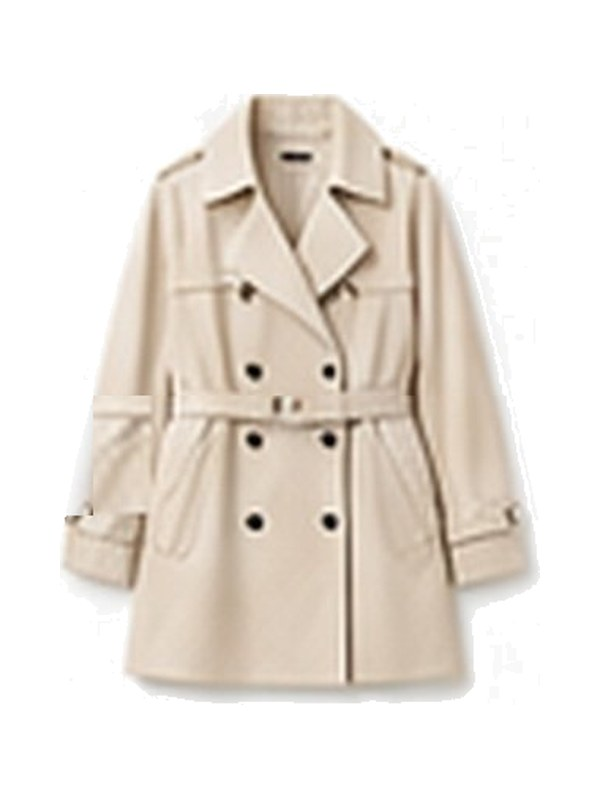
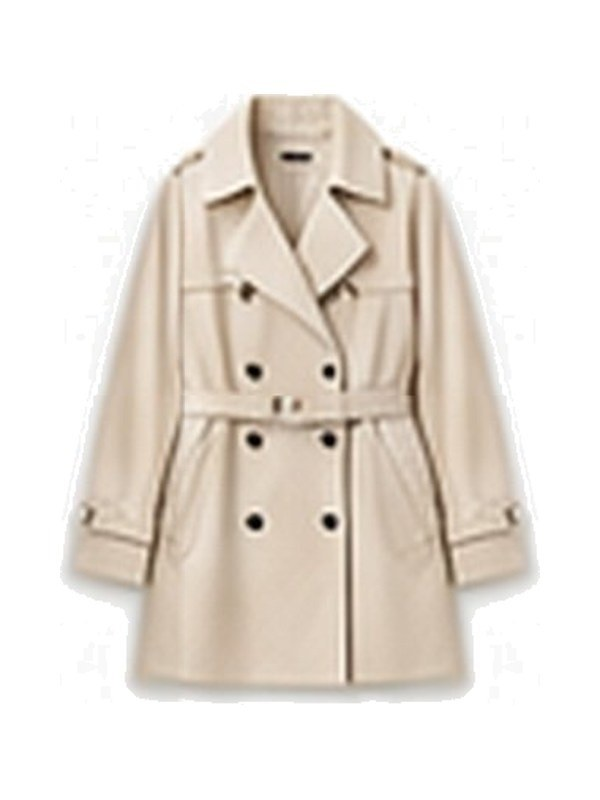
Fix landing photos and price-watch copy, tighten landing story
Photos: restore the clipped left sleeve on c1, c4, c6, c7, k5 and k3 by
mirroring the other side, and swap the blurry or cropped hero shelf
items (a5, sh2, pt3) for clean shots (wt3, h2, sc2).

Copy: the away scene again says it buys only when every pre-approved
term fits, matching R10; payment lines now say you approve every
payment. The five highlight cards follow the hero's camel coat request
end to end. Less repetition of "hand off" and "you pay", a shorter
story, and English kept in step with Korean.

Changed region(s): [[0.09, 0.1875, 0.33, 0.875]]

diff --git a/src/ui/landCopy.ts b/src/ui/landCopy.ts
@@ -15,7 +15,7 @@ export const LAND = {
   },
   heroName: { ko: 'Nod', en: 'Nod' },
   heroTitle: { ko: '말만 하면,\n찾아서 담아 줘요.', en: 'Say it. It finds it and adds it.' },
-  heroBar: { ko: '결제는 언제나 내가 해요.', en: 'You always do the paying.' },
+  heroBar: { ko: '결제는 언제나 내가 승인해요.', en: 'Every payment waits for your OK.' },
   start: { ko: '직접 맡겨 보기', en: 'Hand one off' },
   startShort: { ko: '써 보기', en: 'Try it' },
 
@@ -27,8 +27,8 @@ export const LAND = {
     go: { ko: (n: number) => `${n}번째 카드 보기`, en: (n: number) => `Show card ${n}` },
     cards: [
       {
-        t: { ko: '"검정 울 코트, 20만원 이하"\n이렇게만 말하면 돼요.', en: '"Black wool coat under 200k."\nThat is all you say.' },
-        d: { ko: '색상·소재·종류·예산으로 알아들은 걸 먼저 보여줘요.', en: 'It shows what it understood first: color, material, type, budget.' },
+        t: { ko: '"카멜·베이지 코트, 25만원 이하"\n이렇게만 말하면 돼요.', en: '"Camel or beige coat under 250k."\nThat is all you say.' },
+        d: { ko: '색상·종류·예산으로 알아들은 걸 먼저 보여줘요.', en: 'It shows what it understood first: color, type, budget.' },
       },
       {
         t: { ko: '사이트를 오가며\n비교하지 않아도 돼요.', en: 'No more hopping\nbetween sites to compare.' },
@@ -40,13 +40,21 @@ export const LAND = {
       },
       {
         t: { ko: '생각보다 비싸게\n결제될 일 없어요.', en: 'No paying more\nthan you meant to.' },
-        d: { ko: '정해 둔 한도를 넘으면 결제 전에 알려줘요. 결제는 언제나 내가 해요.', en: 'Over your limit, it tells you before paying. You always pay yourself.' },
+        d: { ko: '정해 둔 한도를 넘으면 결제 전에 알려줘요. 결제는 언제나 내가 승인해요.', en: 'Over your limit, it tells you before paying. Every payment waits for your OK.' },
       },
       {
         t: { ko: '뭘 했는지 다 보이고,\n되돌릴 수도 있어요.', en: 'You see everything it did,\nand can undo it.' },
         d: { ko: '찾고, 빼고, 묻고, 담은 기록이 모두 남아요.', en: 'Every find, drop, question and add is logged.' },
       },
     ] satisfies { t: L; d: L }[],
+    /** 카드 다섯 장은 히어로와 같은 요청 하나를 따라간다 */
+    request: { ko: '카멜·베이지 코트, 25만원 이하', en: 'Camel or beige coat under 250,000' },
+    chips: [
+      { l: { ko: '색상', en: 'Color' }, v: { ko: '카멜·베이지', en: 'camel, beige' } },
+      { l: { ko: '종류', en: 'Type' }, v: { ko: '코트', en: 'coat' } },
+      { l: { ko: '예산', en: 'Budget' }, v: { ko: '25만원 이하', en: 'under 250,000' } },
+    ] satisfies { l: L; v: L }[],
+    limit: 200000,
     match: { ko: '요청에 맞음', en: 'Match' },
     over: { ko: '예산 초과', en: 'Over budget' },
     budget: { ko: '예산 25만원', en: 'Budget KRW 250,000' },
@@ -70,7 +78,6 @@ export const LAND = {
     you: { ko: '내가 정함', en: 'You decide' },
     agent: { ko: '알아서 진행', en: 'Goes ahead' },
     touches: { ko: (n: number) => `내가 확인하는 순간 ${n}번`, en: (n: number) => `${n} moment${n > 1 ? 's' : ''} you check` },
-    touchNote: { ko: '더 많이 맡겨도 결제는 항상 내가 해요.', en: 'Hand off more, and you still pay yourself.' },
     steps: [
       { t: { ko: '요청', en: 'Ask' }, d: { ko: '무엇을, 얼마까지', en: 'What, and how much' } },
       { t: { ko: '계획', en: 'Plan' }, d: { ko: '할 일을 먼저 보여줘요', en: 'Shows the plan first' } },
@@ -84,7 +91,7 @@ export const LAND = {
   scenes: [
     { r: 'R4', t: { ko: '가격이 바뀌었을 때', en: 'When the price changes' }, d: { ko: '담기로 한 뒤 가격이 바뀌면, 담지도 결제하지도 않고 바뀐 가격으로 다시 물어봐요.', en: 'If the price moves after you said yes, it neither adds nor pays. It asks again at the new price.' } },
     { r: 'R5', t: { ko: '뭐가 나을지 애매할 때', en: 'When it is a close call' }, d: { ko: '두 상품이 비슷하게 맞으면 혼자 고르지 않고 나란히 보여줘요. "알아서"로 맡겨도 이건 물어봐요.', en: 'When two items fit about the same, it lays them side by side. Even on "Auto", it asks.' } },
-    { r: 'R10', t: { ko: '자리 비운 사이 가격이 내려왔을 때', en: 'When the price drops while you are away' }, d: { ko: '미리 정한 사이즈·총액·판매처·기한 안에서만 움직여요. 하나라도 안 맞으면 멈추고 이유를 남겨요.', en: 'It moves only inside the size, total, seller and deadline you set. If one does not fit, it stops and notes why.' } },
+    { r: 'R10', t: { ko: '자리 비운 사이 가격이 내려왔을 때', en: 'When the price drops while you are away' }, d: { ko: '미리 정하고 승인해 둔 사이즈·총액·판매처·기한이 모두 맞을 때만 사요. 하나라도 어긋나면 사지 않고 이유를 남겨요.', en: 'It buys only if the size, total, seller and deadline you set and approved ahead all fit. If one is off, it does not buy and notes why.' } },
   ] satisfies { r: string; t: L; d: L }[],
   vis: {
     priceA: { ko: '178,000원', en: 'KRW 178,000' },
@@ -95,7 +102,7 @@ export const LAND = {
     pick: { ko: '직접 골라 주세요', en: 'You choose' },
     target: { ko: '목표 150,000원', en: 'Target KRW 150,000' },
     dropped: { ko: '149,000원, M 품절', en: 'KRW 149,000 · M sold out' },
-    held: { ko: '사이즈가 없어 멈춤', en: 'Size gone, stopped' },
+    held: { ko: '사이즈가 없어 사지 않음', en: 'Size gone, not bought' },
   },
   steps: [
     { t: { ko: '요청', en: 'Ask' }, d: { ko: '찾을 걸 말해요', en: 'Say what you want' } },
@@ -105,7 +112,7 @@ export const LAND = {
   ] satisfies { t: L; d: L }[],
 
   dialTitle: { ko: '얼마나 맡길지는\n내가 정해요.', en: 'You decide\nhow much to hand off.' },
-  dialSub: { ko: '세 단계 중에 고르면 돼요. 어떤 단계든 결제는 내가 해요.', en: 'Pick one of three. At every level, you pay yourself.' },
+  dialSub: { ko: '세 단계 중에 고르면 돼요. 나중에 언제든 바꿀 수 있어요.', en: 'Pick one of three. You can change it any time.' },
 
   cmpTitle: { ko: '나에게 맞는 단계는?', en: 'Which level fits you?' },
   cmp: [
@@ -118,7 +125,7 @@ export const LAND = {
   cmpYes: { ko: '해당', en: 'Yes' },
   cmpNo: { ko: '해당 없음', en: 'No' },
 
-  tryTitle: { ko: '직접 맡겨 보세요', en: 'Hand one off yourself' },
+  tryTitle: { ko: '코트 하나,\n직접 따라가 보세요.', en: 'One coat,\nfollow it through.' },
   trySub: { ko: '요청부터 결제 전까지, 어떻게 움직이는지 한 번 따라가 보세요.', en: 'Follow one request all the way to payment.' },
   agentSub: {
     ko: '조건에 안 맞는 상품은 흐려지고, 예산을 넘는 후보는 빠져요. "담기만 확인"으로 두면 담기 전에 물어봐요.',
@@ -144,10 +151,10 @@ export const LAND = {
   playNote: { ko: '앱에서 "설계 보기"를 켜면 카드마다 해당 원칙이 표시돼요.', en: 'Switch on "Design notes" in the app to tag each card with its rule.' },
 
   /** 만든 이야기: 포트폴리오를 보는 사람을 위한 배경. 아래쪽에 작게 */
-  storyTitle: { ko: '할 수 있는 AI를,\n맡겨도 되는 AI로.', en: 'From an agent that can,\nto an agent you can trust.' },
+  storyTitle: { ko: '할 수 있는 AI를,\n맡겨도 되는 AI로.', en: 'From an AI that can,\nto an AI you can trust.' },
   storySub: {
-    ko: '가격 알림과 최저가 비교가 핵심인 쇼핑 서비스에서 일하며 본 장면에서 시작했어요. AI가 대신 결제하는 방식은 이미 표준이 되고 있지만(OpenAI·Stripe의 ACP, Google의 AP2), 사람이 고를 수 있는 건 "매번 확인"과 "다 알아서" 둘뿐이었어요. 그래서 "얼마나 자동으로 할까"보다 "언제 멈추고 무엇을 보고 물을까"를 먼저 정하고, 직접 만든 쇼핑몰에서 시험했어요.',
-    en: 'It starts from what I saw working on a commerce aggregator built on price alerts and lowest-price tracking. Agent payments are standardizing (ACP, AP2), yet people get two options: "always ask" or "do it all". So I decided when to stop and ask before deciding how much to automate, and tested it in a shop I built.',
+    ko: '가격 알림과 최저가 비교가 핵심인 쇼핑 서비스에서 일하며 본 장면에서 시작했어요. AI가 대신 결제하는 표준(ACP, AP2)은 나왔지만, 고를 수 있는 건 "매번 확인"과 "다 알아서" 둘뿐이었어요. 그래서 "언제 멈추고 물을까"부터 정하고, 직접 만든 쇼핑몰에서 시험했어요.',
+    en: 'It started at a shopping service built on price alerts and lowest-price tracking. Standards for agent payments (ACP, AP2) exist, yet people get two options: "always ask" or "do it all". So I decided first when it should stop and ask, then tested it in a shop I built.',
   },
 
   endTitle: { ko: '쇼핑 하나,\n맡겨 보세요.', en: 'Hand off\none shopping trip.' },
@@ -198,7 +205,7 @@ export const TOUR = {
   limitShort: { ko: '한도', en: 'Limit' },
   limitLabel: { ko: '결제 한도', en: 'Payment limit' },
   over: { ko: '결제 한도를 넘었어요. 얼마나 맡겼든 직접 확인해야 해요.', en: 'Over your payment limit. However much you handed off, you check this one.' },
-  payNote: { ko: '한도를 바꿔 보세요. Nod는 결제를 대신하지 않아요.', en: 'Change the limit. Nod never pays for you.' },
+  payNote: { ko: '한도를 바꿔 보세요. 결제는 언제나 내가 승인해요.', en: 'Change the limit. Every payment waits for your OK.' },
 } as const;
 
 export const SETUP = {

diff --git a/src/ui/Highlights.tsx b/src/ui/Highlights.tsx
@@ -90,11 +90,11 @@ function Photo({ id, w = 480 }: { id: string; w?: number }) {
 function Understand({ lang }: { lang: Lang }) {
   return (
     <div className="hv hv-ask">
-      <div className="hv-ph"><Photo id="c1" /></div>
+      <div className="hv-ph"><Photo id="c7" /></div>
       <div className="hv-ui">
-        <p className="hv-req">{t(TOUR.request, lang)}</p>
+        <p className="hv-req">{t(H.request, lang)}</p>
         <div className="hv-chips">
-          {TOUR.chips.map((c, i) => <span key={i} className="chip"><i>{t(c.l, lang)}</i>{t(c.v, lang)}</span>)}
+          {H.chips.map((c, i) => <span key={i} className="chip"><i>{t(c.l, lang)}</i>{t(c.v, lang)}</span>)}
         </div>
       </div>
     </div>
@@ -139,20 +139,20 @@ function Approve({ lang }: { lang: Lang }) {
 }
 
 function Pay({ lang }: { lang: Lang }) {
-  const p = useShop()['c1'];
-  const limit = 150000;
+  const p = useShop()['c7'];
+  const limit = H.limit;
   return (
     <div className="hv hv-pay">
       <div className="hv-pay-in">
         <p className="hv-q">{t(TOUR.payLabel, lang)}</p>
         <div className="hv-pay-item">
-          <div className="hv-ph"><Photo id="c1" w={200} /></div>
+          <div className="hv-ph"><Photo id="c7" w={200} /></div>
           <div>
             <p className="hv-n">{t(p.name, lang)}</p>
-            <p className="hv-price num">{money(TOUR.price, lang)}</p>
+            <p className="hv-price num">{money(p.price, lang)}</p>
           </div>
         </div>
-        <div className="hv-meter" aria-hidden><i style={{ width: `${Math.min(100, (limit / TOUR.price) * 100)}%` }} /></div>
+        <div className="hv-meter" aria-hidden><i style={{ width: `${Math.min(100, (limit / p.price) * 100)}%` }} /></div>
         <p className="hv-s num">{t(TOUR.limitLabel, lang)} {money(limit, lang)}</p>
         <p className="hv-warn">{t(TOUR.over, lang)}</p>
       </div>

diff --git a/src/ui/HeroPicks.tsx b/src/ui/HeroPicks.tsx
@@ -3,16 +3,17 @@ import type { L, Lang } from '../engine/types';
 import { buildCatalog } from '../store/catalog';
 import { photoUrl } from '../store/photos';
 import { money, t } from './copy';
+import { LAND } from './landCopy';
 import { Mark } from './Mark';
 import { reducedMotion } from './motion';
 
 /** 진열대 9칸. 요청에 맞는 건 카멜·베이지 코트 셋, 그중 하나는 예산을 넘는다. 사진에 덧댄 자국이 없는 상품만 쓴다. */
-const SHELF = ['k5', 'c6', 'a5', 'c7', 's3', 'sh2', 'l2', 'c4', 'pt3'];
+const SHELF = ['k5', 'c6', 'wt3', 'c7', 's3', 'h2', 'l2', 'c4', 'sc2'];
 const MATCH = new Set(['c7', 'c6', 'c4']);
 const OVER = 'c4';
 const PICK = 'c7';
 
-const REQ: L = { ko: '카멜·베이지 코트, 25만원 이하', en: 'Camel or beige coat under 250000' };
+const REQ: L = LAND.hl.request;
 const TXT = {
   match: { ko: '요청에 맞음', en: 'Match' },
   over: { ko: '예산 초과', en: 'Over budget' },

diff --git a/src/ui/Decides.tsx b/src/ui/Decides.tsx
@@ -39,7 +39,7 @@ export function Decides({ lang }: { lang: Lang }) {
         <Seg options={(Object.keys(DIAL) as Dial[]).map((d) => ({ value: d, label: t(DIAL[d], lang) }))} value={dial} onChange={setDial} label={t(M.dial, lang)} />
       </div>
       <figcaption className="lane-foot" key={dial}>
-        <b>{t(DIAL[dial], lang)}.</b> {t(SETUP.dialDesc[dial], lang)}. {M.touches[lang](touches)}. {t(M.touchNote, lang)}
+        <b>{t(DIAL[dial], lang)}.</b> {t(SETUP.dialDesc[dial], lang)}. {M.touches[lang](touches)}.
       </figcaption>
     </figure>
   );
